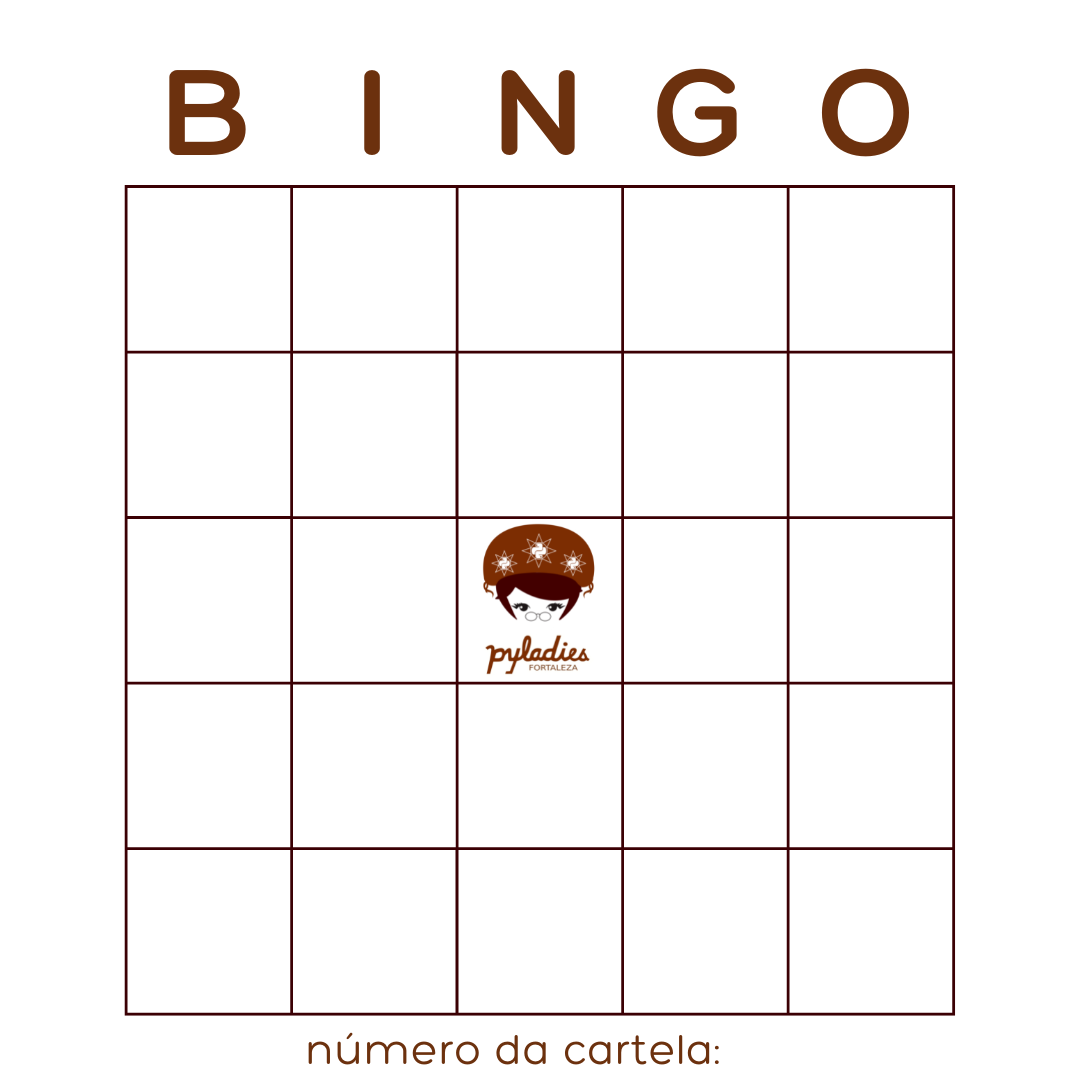
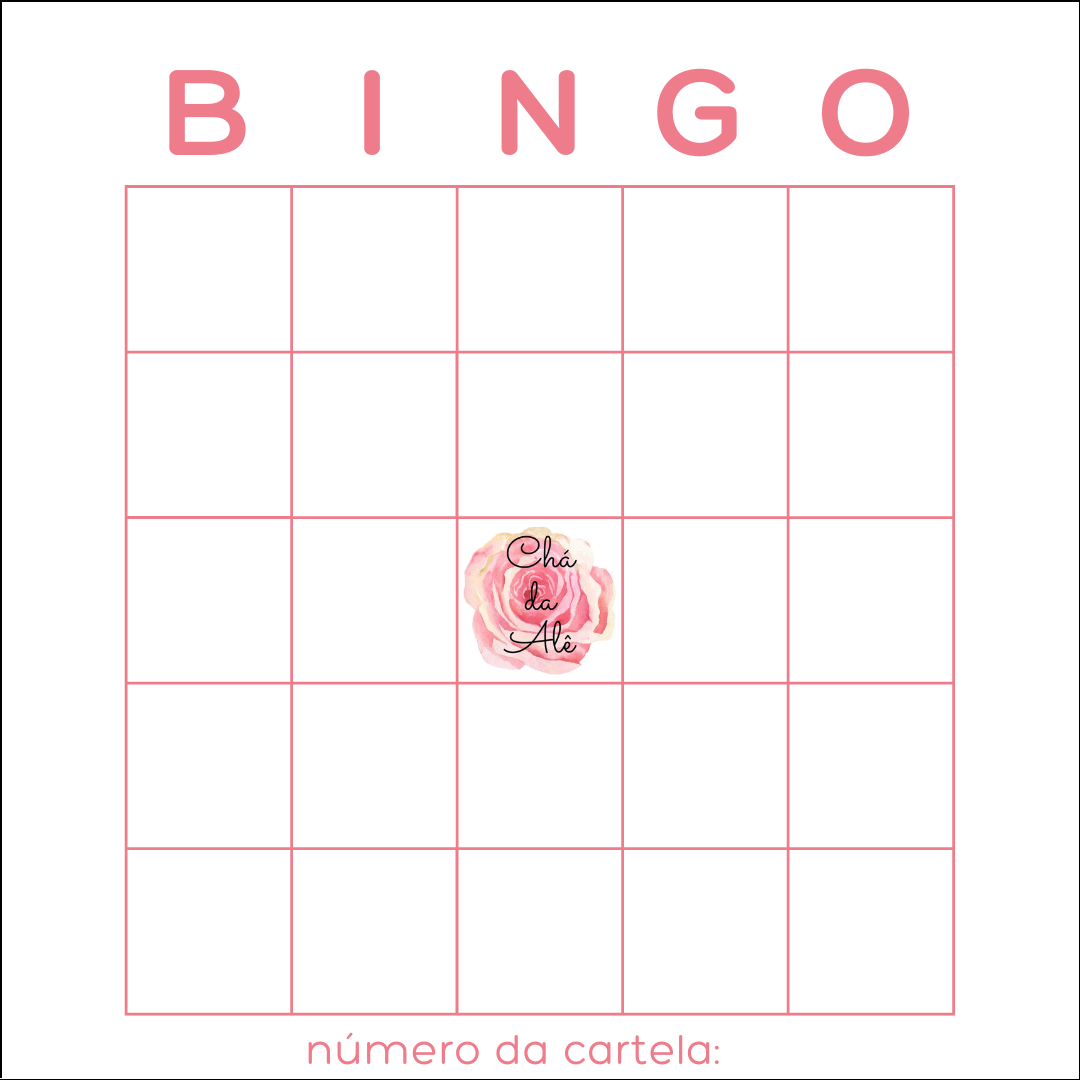
muda cartela, cores e arruma bug de sorteio

diff --git a/11_palavras.py b/11_palavras.py
@@ -2,17 +2,59 @@ import os
 import random
 from PIL import ImageFont, ImageDraw, Image, ImageOps
 
-cor = (108, 49, 14, 255)
+cor = (238, 124, 139, 255)
 
 
 def selecionar_numeros():
-    lista = ["C. de facas", "C. de sobremesa", "C. de taças", "C. de talheres", "Desc. de panela", "Fôrma de bolo", "Frigideira", "Jarra", "J. de café", "J. de chá", "J. de copos", "J. de jantar", "J. de mesa posta", "J. de panelas", "Lixeira", "Luva térmica", "Panos de prato", "Peneiras", "Porta-guard.", "Potes", "Ralador", "Tábua de cortes", "Tábua de frios", "Tigelas", "Toalha de mesa", "Almofadas", "Travesseiros", "Cobertor", "Jogo de cama", "Lençol", "Tábua de passar", "Ferro de passar", "rede", "toalha", "tapetes", "kit de banheiro", "balde retrátil", "capacho", "vassoura", "pá", "MOP", "Rodo", "Extensão elétrica", "ferramentas", "Pix"]
+    lista = [
+        "Afiador de facas",
+        "Avental",
+        "C. colheres",
+        "C. facas",
+        "C. sobremesa",
+        "C. taças",
+        "C. talheres",
+        "Desc. de panela",
+        "Fôrma de bolo",
+        "Frigideira",
+        "J. de café",
+        "J. de chá",
+        "J. de jantar",
+        "J. de mesa posta",
+        "J. de panelas",
+        "Lixeira",
+        "Luva térmica",
+        "Panos de prato",
+        "Peneiras",
+        "Potes de vidro",
+        "Ralador",
+        "Sanduicheira",
+        "Tábua de cortes",
+        "Tábua de frios",
+        "Toalha de mesa",
+        "Travessa",
+        "Almofadas",
+        "Cobertor",
+        "Cortina",
+        "J. de cama",
+        "Lençóis",
+        "Rede",
+        "Travesseiros",
+        "Balde retrátil",
+        "Capacho",
+        "Extensão elétrica",
+        "J. de tapetes",
+        "Kit lavabo",
+        "Ferramentas",
+        "Kit limpeza",
+        "Toalhas",
+    ]
     tabela = [
         random.sample(range(0, 9), 5),
-        random.sample(range(0, 18), 5),
+        random.sample(range(9, 18), 5),
         random.sample(range(18, 27), 4),
         random.sample(range(27, 36), 5),
-        random.sample(range(3, 45), 5),
+        random.sample(range(36, 41), 5),
     ]
 
     for coluna in tabela:
@@ -27,7 +69,7 @@ def desenhar_rodape(desenho, pagina=1):
     xcor = 750
     ycor = 1015
 
-    desenho.text((xcor, ycor), str(pagina), font=fonte, fill=(108, 49, 14, 255))
+    desenho.text((xcor, ycor), str(pagina), font=fonte, fill=cor)
     return desenho
 
 
@@ -37,7 +79,7 @@ def desenhar_numeros(cartela, numeros_cartela, pagina=1):
     f = ImageFont.truetype("assets/Dunkin.otf", 17)
     delta = 160
     x = -10
-    
+
     for indice_c, coluna in enumerate(numeros_cartela):
         x += delta
         y = -25
@@ -46,13 +88,13 @@ def desenhar_numeros(cartela, numeros_cartela, pagina=1):
                 # também soma aqui por causa do quadrado do meio
                 y += delta
 
-            txt=Image.new('L', (500,50))
+            txt = Image.new("L", (500, 50))
             d = ImageDraw.Draw(txt)
-            d.text( (0, 0), str(linha),  font=f, fill=255)
-            w=txt.rotate(45,  expand=1)
-            print(x,y, linha)
-            cartela.paste( ImageOps.colorize(w, (0,0,0), (0,0,0)), (x,y),  w)
-            #desenho.text((x, y), str(linha), font=fonte, fill=cor)
+            d.text((0, 0), str(linha), font=f, fill=255)
+            w = txt.rotate(45, expand=1)
+            # print(x,y, linha)
+            cartela.paste(ImageOps.colorize(w, (0, 0, 0), (0, 0, 0)), (x, y), w)
+            # desenho.text((x, y), str(linha), font=fonte, fill=cor)
             y += delta
 
 
@@ -112,6 +154,6 @@ def juntar_as_cartelas():
     nova_imagem.save(f"para_pdf_{indice}.jpg", "JPEG")
 
 
-gerar_cartelas(quantidade=1, numero_inicial=1)
-juntar_as_cartelas()
-os.system("convert para_pdf_* imprimir.pdf")
+gerar_cartelas(quantidade=60, numero_inicial=1)
+# juntar_as_cartelas()
+# os.system("convert para_pdf_* imprimir.pdf")
